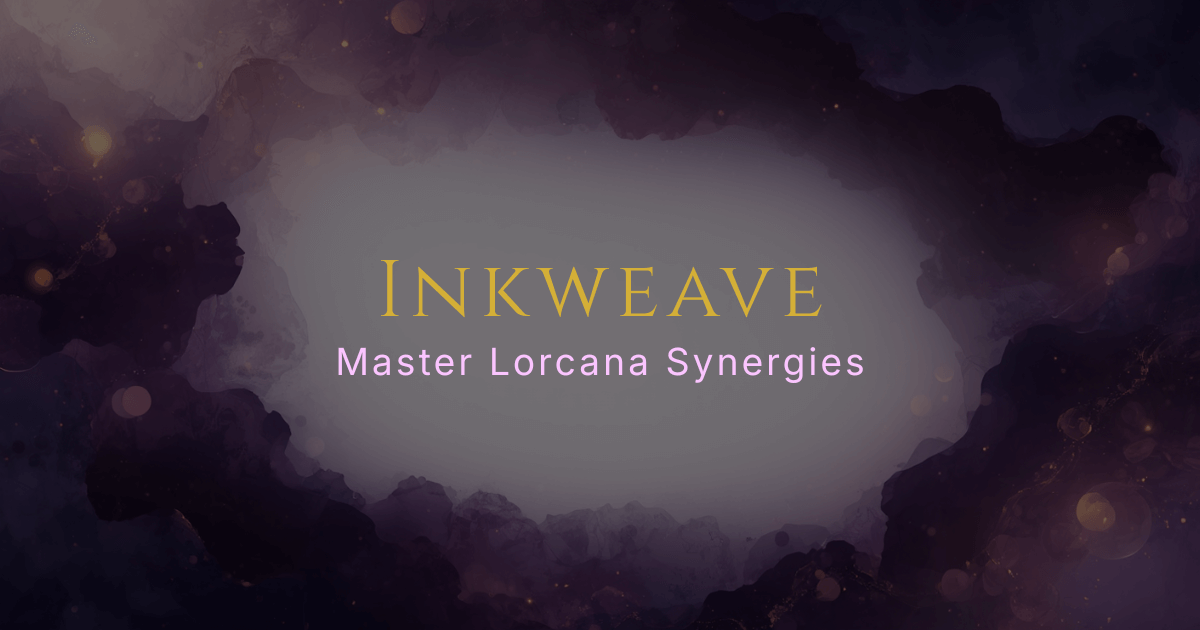
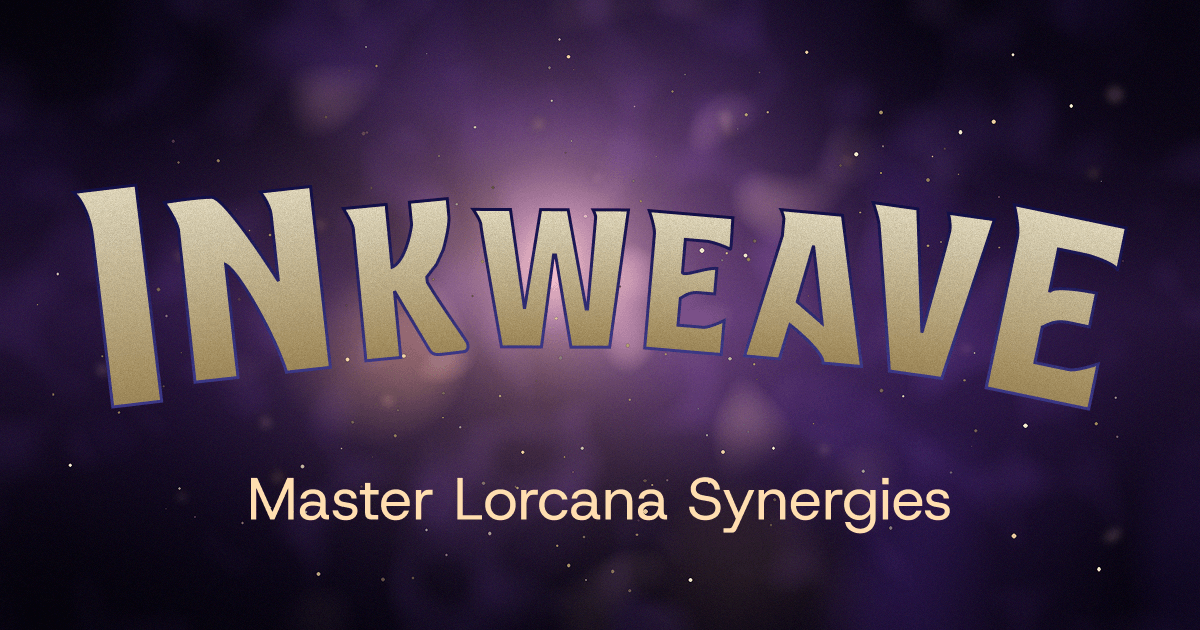
feat(landing): beta notice, strategy-tips flag, copy polish, og-image refresh
Landing-page + playstyles-detail minor polish batch. No behavioral
regressions (all 623 unit tests + 4 home-page E2E pass).

Feature flags (mirror VITE_IS_REVEAL_SEASON pattern):
- `VITE_SHOW_STRATEGY_TIPS` — gates the Strategy Tips collapsible on
  /playstyles/:id detail pages. Default off (production); dev keeps it on
  via .env.local. Declared in .env.example, typed in vite-env.d.ts,
  set 'true' in playwright.config.ts webServer.env so the existing
  `playstyle-detail.spec.ts:27` toggle test stays green.
- `VITE_SHOW_BETA_NOTICE` — gates the new landing-page beta notice.
  Default true (show notice); off in playwright E2E env so existing
  home-page tests don't see an unexpected floating card. Flip to false
  in Vercel at v1.0.0 launch.

New component:
- `<BetaNotice>` — non-dismissable top-left floating card on the landing
  page, desktop-only via `isHome && !isMobile` gate in AppLayout.
  Copy: "BETA — Inkweave is in beta — you may encounter bugs. Thanks
  for testing!" Storybook story included.

Copy polish:
- HeroSection subtitle: "powerful combinations" → "powerful synergies"
  (also updates `HeroSection.test.tsx:25` assertion)
- FeaturedCards: removed "Cards with the most powerful connections"
  subtitle under the "POPULAR SYNERGY STARTERS" label — cleaner header.

OG image refresh:
- Replaced `apps/web/public/og-image.png` with a new design. Same
  1200×630 PNG dimensions, no index.html changes needed.

diff --git a/apps/web/src/shared/components/BetaNotice.tsx b/apps/web/src/shared/components/BetaNotice.tsx
@@ -1,0 +1,46 @@
+import {COLORS, FONTS, FONT_SIZES, RADIUS, SPACING} from '../constants';
+
+/**
+ * Persistent beta-warning card on the landing page, top-left.
+ *
+ * Non-dismissable — the notice stays visible for the duration of the beta.
+ * Turn off site-wide via `VITE_SHOW_BETA_NOTICE=false` when no longer needed
+ * (e.g., at v1.0.0 launch). Desktop-only — see `AppLayout.tsx` for the
+ * `isHome && !isMobile` gate.
+ */
+export function BetaNotice() {
+  return (
+    <aside
+      aria-label="Beta notice"
+      style={{
+        position: 'fixed',
+        left: 32,
+        top: 32,
+        maxWidth: 320,
+        padding: `${SPACING.md}px ${SPACING.lg}px`,
+        borderRadius: RADIUS.lg,
+        background: `linear-gradient(180deg, ${COLORS.surface} 0%, ${COLORS.surfaceAlt} 100%)`,
+        border: `1px solid ${COLORS.surfaceBorder}`,
+        boxShadow: '0 8px 32px rgba(0, 0, 0, 0.5), 0 0 16px rgba(212, 175, 55, 0.12)',
+        color: COLORS.text,
+        fontFamily: FONTS.body,
+        fontSize: `${FONT_SIZES.sm}px`,
+        lineHeight: 1.5,
+        zIndex: 800,
+      }}>
+      <span
+        style={{
+          display: 'inline-block',
+          fontSize: `${FONT_SIZES.xs}px`,
+          fontWeight: 700,
+          letterSpacing: 0.6,
+          textTransform: 'uppercase',
+          color: COLORS.primary,
+          marginRight: 8,
+        }}>
+        Beta
+      </span>
+      Inkweave is in beta — you may encounter bugs. Thanks for testing!
+    </aside>
+  );
+}

diff --git a/apps/web/src/AppLayout.tsx b/apps/web/src/AppLayout.tsx
@@ -5,6 +5,7 @@ import {SpeedInsights} from '@vercel/speed-insights/react';
 import {CardPreviewProvider, CardPreviewPopover} from './features/cards';
 import {RevealsPromoCard, useRevealPhase} from './features/reveals';
 import {
+  BetaNotice,
   ErrorBoundary,
   MobileBottomNav,
   MOBILE_NAV_HEIGHT,
@@ -15,6 +16,10 @@ import {CardDataProvider} from './shared/contexts/CardDataContext';
 import {COLORS} from './shared/constants';
 import {useCardDataContext} from './shared/contexts/CardDataContext';
 import {useResponsive} from './shared/hooks';
+
+// Feature flag: gates the desktop-only beta notice card on the landing page.
+// Off at v1.0.0 launch via Vercel env. Default on locally via .env.local.
+const SHOW_BETA_NOTICE = import.meta.env.VITE_SHOW_BETA_NOTICE === 'true';
 
 function AppContent() {
   const {error, retryLoad} = useCardDataContext();
@@ -75,6 +80,7 @@ function AppContent() {
       {showRevealsPromo && (
         <RevealsPromoCard />
       )}
+      {SHOW_BETA_NOTICE && isHome && !isMobile && <BetaNotice />}
     </>
   );
 }

diff --git a/apps/web/src/pages/PlaystyleDetailPage.tsx b/apps/web/src/pages/PlaystyleDetailPage.tsx
@@ -40,6 +40,10 @@ import {
 import {useCardDataContext} from '../shared/contexts/CardDataContext';
 import {useResponsive, useFilterParams, usePreloadImages} from '../shared/hooks';
 
+// Feature flag: gates the "Strategy Tips" collapsible section on the hero.
+// Off by default in production (set `VITE_SHOW_STRATEGY_TIPS=true` in .env.local for dev).
+const SHOW_STRATEGY_TIPS = import.meta.env.VITE_SHOW_STRATEGY_TIPS === 'true';
+
 // ── Hero layout configs ──
 
 interface HeroLayout {
@@ -217,8 +221,8 @@ function PlaystyleHero({
           {description}
         </p>
 
-        {/* Strategy Tips: collapsible section (hidden when no tips) */}
-        {tips.length > 0 && (
+        {/* Strategy Tips: collapsible section (hidden when no tips or when flag is off) */}
+        {SHOW_STRATEGY_TIPS && tips.length > 0 && (
           <>
             <button
               onClick={() => setTipsOpen(!tipsOpen)}

diff --git a/apps/web/playwright.config.ts b/apps/web/playwright.config.ts
@@ -42,6 +42,13 @@ export default defineConfig({
     env: {
       // Exercise the reveal-season active code paths in E2E.
       VITE_IS_REVEAL_SEASON: 'true',
+      // Show Strategy Tips block so the `playstyle-detail.spec.ts` toggle test has
+      // a rendered button to interact with. Production default stays off via .env.example.
+      VITE_SHOW_STRATEGY_TIPS: 'true',
+      // Suppress the beta notice in E2E so existing home-page tests don't see an
+      // unexpected floating card. If a future test covers the notice itself, flip
+      // to 'true' and clear localStorage in beforeEach.
+      VITE_SHOW_BETA_NOTICE: 'false',
     },
   },
 });

diff --git a/apps/web/src/shared/components/BetaNotice.stories.tsx b/apps/web/src/shared/components/BetaNotice.stories.tsx
@@ -1,0 +1,20 @@
+import type {Meta, StoryObj} from '@storybook/react-vite';
+import {BetaNotice} from './BetaNotice';
+
+const meta: Meta<typeof BetaNotice> = {
+  title: 'Shared/BetaNotice',
+  component: BetaNotice,
+  parameters: {layout: 'fullscreen', backgrounds: {default: 'dark'}},
+  decorators: [
+    (Story) => (
+      <div style={{position: 'relative', minHeight: '100vh'}}>
+        <Story />
+      </div>
+    ),
+  ],
+  tags: ['autodocs'],
+};
+export default meta;
+type Story = StoryObj<typeof meta>;
+
+export const Default: Story = {};

diff --git a/apps/web/src/features/cards/components/FeaturedCards.tsx b/apps/web/src/features/cards/components/FeaturedCards.tsx
@@ -103,14 +103,6 @@ export function FeaturedCards({
         <DividerLine />
         <div style={{flexShrink: 0, textAlign: 'center'}}>
           <div style={styles.label}>Popular Synergy Starters</div>
-          <div
-            style={{
-              fontSize: `${FONT_SIZES.xs}px`,
-              color: COLORS.featuredLabel,
-              marginTop: 4,
-            }}>
-            Cards with the most powerful connections
-          </div>
         </div>
         <DividerLine />
       </div>

diff --git a/apps/web/src/shared/components/__tests__/HeroSection.test.tsx b/apps/web/src/shared/components/__tests__/HeroSection.test.tsx
@@ -22,7 +22,7 @@ describe('HeroSection', () => {
     expect(heading).toBeInTheDocument();
     expect(heading.querySelector('img')).toHaveAttribute('src', '/brand/logo-animated.svg');
     expect(
-      screen.getByText('Select any Lorcana card and instantly discover powerful combinations.'),
+      screen.getByText('Select any Lorcana card and instantly discover powerful synergies.'),
     ).toBeInTheDocument();
   });
 

diff --git a/apps/web/src/shared/components/HeroSection.tsx b/apps/web/src/shared/components/HeroSection.tsx
@@ -170,7 +170,7 @@ export function HeroSection({
       {/* Subtitle */}
       <div style={styles.subtitleContainer}>
         <p style={styles.subtitlePrimary}>
-          Select any Lorcana card and instantly discover powerful combinations.
+          Select any Lorcana card and instantly discover powerful synergies.
         </p>
       </div>
 

diff --git a/apps/web/src/vite-env.d.ts b/apps/web/src/vite-env.d.ts
@@ -6,6 +6,8 @@ interface ImportMetaEnv {
   readonly VITE_SUPABASE_URL?: string;
   readonly VITE_SUPABASE_ANON_KEY?: string;
   readonly VITE_IS_REVEAL_SEASON?: string;
+  readonly VITE_SHOW_STRATEGY_TIPS?: string;
+  readonly VITE_SHOW_BETA_NOTICE?: string;
 }
 
 interface ImportMeta {

diff --git a/apps/web/src/shared/components/index.ts b/apps/web/src/shared/components/index.ts
@@ -1,4 +1,5 @@
 export {BackLink} from './BackLink';
+export {BetaNotice} from './BetaNotice';
 export {Callout} from './Callout';
 export {CardImage} from './CardImage';
 export {CardTextBlock} from './CardTextBlock';
